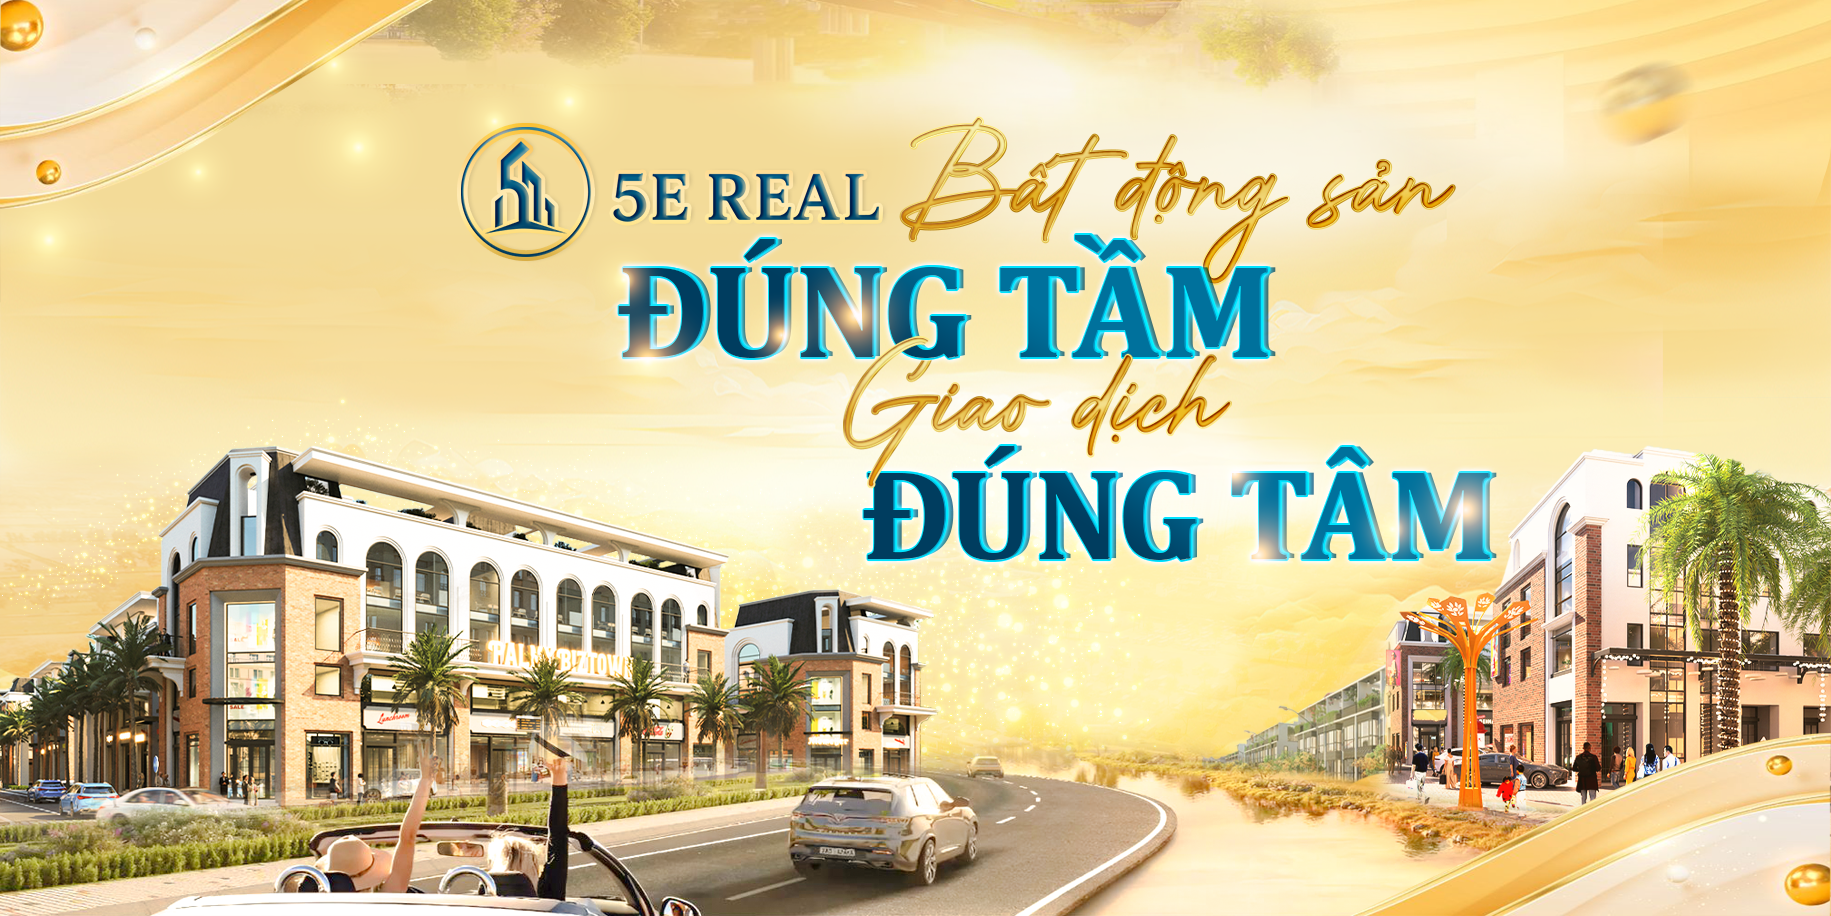
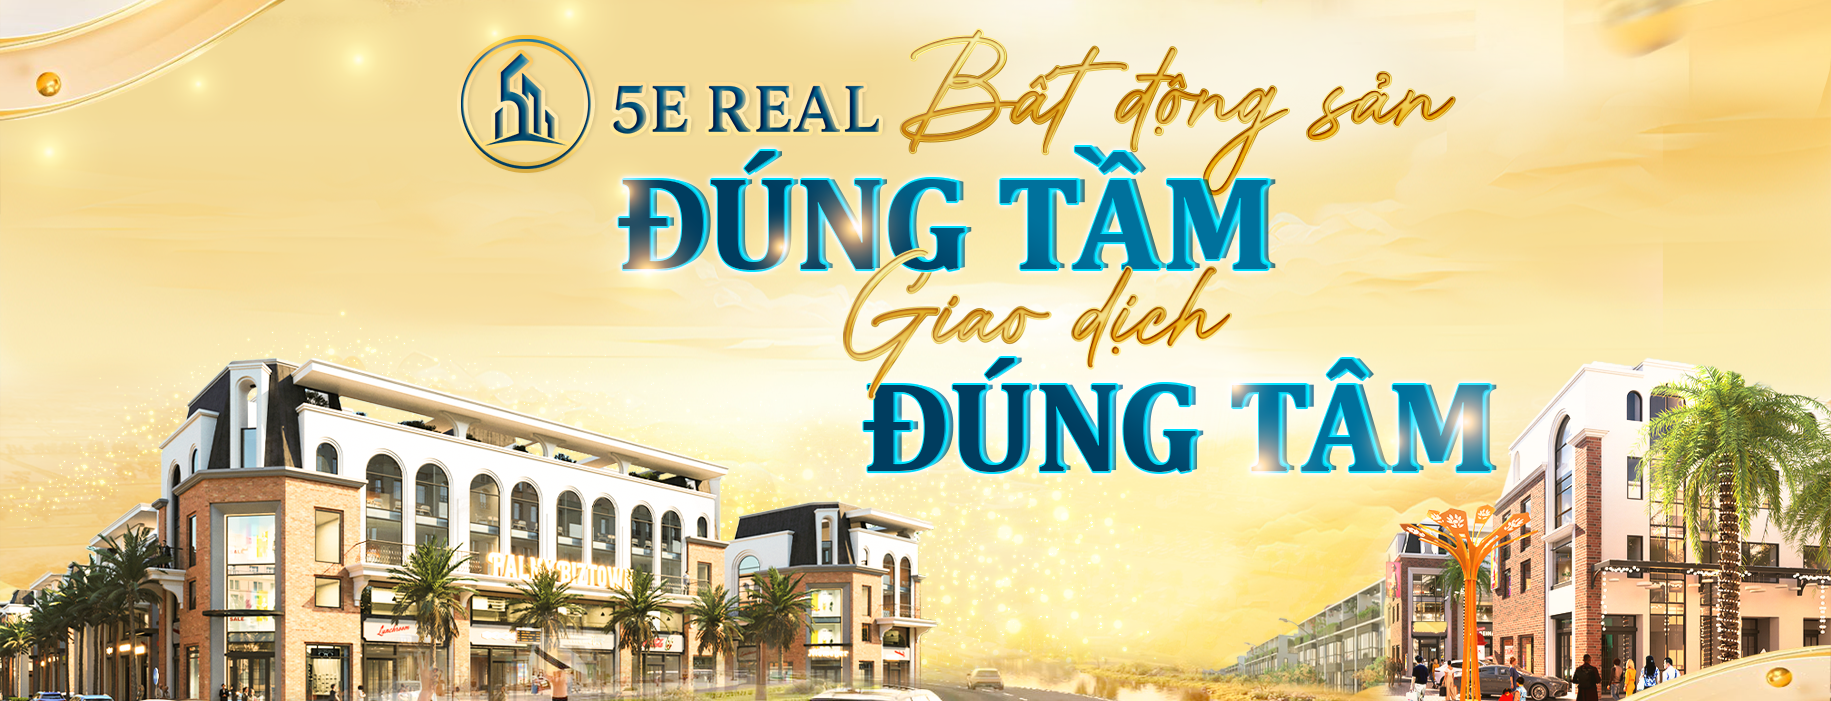
dev

diff --git a/app/linh-vuc-hoat-dong/dao-tao-dau-tu-va-giao-dich-bds/page.tsx b/app/linh-vuc-hoat-dong/dao-tao-dau-tu-va-giao-dich-bds/page.tsx
@@ -1,0 +1,69 @@
+import React from 'react'
+import Image from 'next/image'
+
+function page() {
+  return (
+    <section className="max-w-6xl mx-auto px-4 py-8 space-y-4">
+      {/* Title */}
+      <div className="text-center">
+        <h1 className="text-2xl md:text-3xl font-bold text-slate-900">
+          ĐÀO TẠO ĐẦU TƯ &amp; GIAO DỊCH BĐS
+        </h1>
+        <p className="mt-3 text-slate-600">
+          Chương trình đào tạo chuyên sâu về đầu tư bất động sản
+        </p>
+      </div>
+
+      {/* First image */}
+      <figure className="rounded-xl overflow-hidden bg-slate-50">
+        <Image
+          src="/linh-vuc-1.png"
+          alt="Đào tạo bất động sản"
+          className="w-full object-cover"
+          width={1920}
+          height={1080}
+        />
+      </figure>
+
+      {/* Text content */}
+      <div className="space-y-4 text-slate-700">
+        <p>
+          Chúng tôi xây dựng chương trình đào tạo chuyên sâu giúp học viên nắm vững kiến thức, kỹ năng
+          và chiến lược trong lĩnh vực đầu tư &amp; giao dịch bất động sản. Nội dung đào tạo được thiết kế
+          bài bản, kết hợp lý thuyết và thực tiễn.
+        </p>
+        <ul className="list-disc list-inside space-y-2">
+          <li>Kiến thức nền tảng về thị trường bất động sản</li>
+          <li>Phân tích và đánh giá tiềm năng dự án</li>
+          <li>Chiến lược đầu tư và quản lý rủi ro</li>
+          <li>Kỹ năng giao dịch và đàm phán hiệu quả</li>
+        </ul>
+      </div>
+
+      {/* Second image */}
+      <figure className="rounded-xl overflow-hidden bg-slate-50">
+        <Image
+          src="/linh-vuc-2.jpg"
+          alt="Khóa học đầu tư"
+          className="w-full object-cover"
+          width={1920}
+          height={1080}
+        />
+      </figure>
+
+      <div className="space-y-4 text-slate-700">
+        <p>
+          Các buổi học được dẫn dắt bởi chuyên gia giàu kinh nghiệm, mang đến góc nhìn thực tế và giải pháp
+          phù hợp cho từng tình huống cụ thể trong đầu tư bất động sản.
+        </p>
+        <p>
+          Mục tiêu của chúng tôi là giúp học viên tự tin hơn trong việc ra quyết định, gia tăng cơ hội thành
+          công và xây dựng sự nghiệp bền vững trong ngành bất động sản.
+        </p>
+      </div>
+    </section>
+
+  )
+}
+
+export default page

diff --git a/app/linh-vuc-hoat-dong/dau-tu-va-phat-trien-du-an/page.tsx b/app/linh-vuc-hoat-dong/dau-tu-va-phat-trien-du-an/page.tsx
@@ -1,8 +1,67 @@
+import Image from 'next/image'
 import React from 'react'
 
 function page() {
   return (
-    <div>page</div>
+    <section className="max-w-6xl mx-auto px-4 py-8 space-y-4">
+      {/* Title */}
+      <div className="text-center">
+        <h1 className="text-2xl md:text-3xl font-bold text-slate-900">ĐẦU TƯ VÀ PHÁT TRIỂN DỰ ÁN</h1>
+        <p className="mt-3 text-slate-600">Định hình toàn bộ chiến lược Marketing và thương mại hóa</p>
+      </div>
+
+
+      {/* First image */}
+      <figure className="rounded-xl overflow-hidden bg-slate-50">
+        <Image
+          src="/17.jpg"
+          alt="Banner"
+          className="w-full object-cover"
+          width={1920}
+          height={1080}
+        />
+      </figure>
+
+
+      {/* Text content */}
+      <div className="space-y-4 text-slate-700">
+        <p>
+          Chúng tôi đồng hành cùng đối tác trong toàn bộ tiến trình thương mại hóa dự án – từ ý tưởng
+          ban đầu đến khi chính thức đi vào vận hành. Mỗi chiến lược được xây dựng đều hướng đến hiệu
+          quả, bền vững và gia tăng giá trị lâu dài.
+        </p>
+        <ul className="list-disc list-inside space-y-2">
+          <li>Nghiên cứu & phân tích thị trường</li>
+          <li>Xây dựng chiến lược Marketing toàn diện</li>
+          <li>Thương mại hóa & kế hoạch bán hàng</li>
+          <li>Giải pháp đồng bộ từ thiết kế đến vận hành</li>
+        </ul>
+      </div>
+
+
+      {/* Second image */}
+      <figure className="rounded-xl overflow-hidden bg-slate-50">
+        <Image
+          src="/cong-cu-2.jpg"
+          alt="Chiến lược"
+          className="w-full object-cover"
+          width={1920}
+          height={1080}
+        />
+      </figure>
+
+      <div className="space-y-4 text-slate-700">
+        <p>
+          Mỗi dự án được triển khai theo một lộ trình rõ ràng, bao gồm các giai đoạn nghiên cứu, phát
+          triển sản phẩm, truyền thông và thương mại hóa. Mỗi bước đi đều được tối ưu để đạt hiệu quả
+          cao nhất.
+        </p>
+        <p>
+          Chúng tôi cam kết mang đến cho khách hàng và đối tác giải pháp toàn diện, vừa đảm bảo mục
+          tiêu kinh doanh, vừa tạo dựng giá trị lâu dài cho cộng đồng và thị trường.
+        </p>
+      </div>
+    </section>
   )
 }
 

diff --git a/app/linh-vuc-hoat-dong/phan-phoi-bat-dong-san/page.tsx b/app/linh-vuc-hoat-dong/phan-phoi-bat-dong-san/page.tsx
@@ -1,8 +1,67 @@
 import React from 'react'
+import Image from 'next/image'
 
 function page() {
   return (
-    <div>page</div>
+    <section className="max-w-6xl mx-auto px-4 py-8 space-y-4">
+      {/* Title */}
+      <div className="text-center">
+        <h1 className="text-2xl md:text-3xl font-bold text-slate-900">
+          PHÂN PHỐI BẤT ĐỘNG SẢN
+        </h1>
+        <p className="mt-3 text-slate-600">
+          Hệ thống phân phối chuyên nghiệp và hiệu quả
+        </p>
+      </div>
+
+      {/* First image */}
+      <figure className="rounded-xl overflow-hidden bg-slate-50">
+        <Image
+          src="/cong-cu-4.jpg"
+          alt="Hệ thống phân phối"
+          className="w-full object-cover"
+          width={1920}
+          height={1080}
+        />
+      </figure>
+
+      {/* Text content */}
+      <div className="space-y-4 text-slate-700">
+        <p>
+          Với hệ thống phân phối rộng khắp và chuyên nghiệp, chúng tôi đảm bảo mỗi dự án bất động sản
+          được tiếp cận đúng khách hàng mục tiêu, tối ưu hiệu quả bán hàng và gia tăng giá trị thương hiệu.
+        </p>
+        <ul className="list-disc list-inside space-y-2">
+          <li>Đội ngũ kinh doanh giàu kinh nghiệm</li>
+          <li>Chiến lược tiếp thị & bán hàng hiệu quả</li>
+          <li>Mạng lưới phân phối đa kênh toàn diện</li>
+          <li>Chính sách hỗ trợ và chăm sóc khách hàng chuyên nghiệp</li>
+        </ul>
+      </div>
+
+      {/* Second image */}
+      <figure className="rounded-xl overflow-hidden bg-slate-50">
+        <Image
+          src="/du-an-3.png"
+          alt="Kênh phân phối"
+          className="w-full object-cover"
+          width={1920}
+          height={1080}
+        />
+      </figure>
+
+      <div className="space-y-4 text-slate-700">
+        <p>
+          Chúng tôi triển khai hệ thống quản lý bán hàng minh bạch, hiện đại và hiệu quả, đảm bảo tiến độ
+          cũng như mục tiêu kinh doanh của từng dự án.
+        </p>
+        <p>
+          Sứ mệnh của chúng tôi là mang đến cho khách hàng cơ hội tiếp cận những sản phẩm bất động sản chất
+          lượng, đồng thời giúp chủ đầu tư tối ưu hóa doanh thu và phát triển bền vững.
+        </p>
+      </div>
+    </section>
+
   )
 }
 

diff --git a/app/linh-vuc-hoat-dong/thiet-ke-va-thi-cong-can-ho/page.tsx b/app/linh-vuc-hoat-dong/thiet-ke-va-thi-cong-can-ho/page.tsx
@@ -1,8 +1,68 @@
 import React from 'react'
+import Image from 'next/image'
 
 function page() {
   return (
-    <div>page</div>
+    <section className="max-w-6xl mx-auto px-4 py-8 space-y-4">
+      {/* Title */}
+      <div className="text-center">
+        <h1 className="text-2xl md:text-3xl font-bold text-slate-900">
+          THIẾT KẾ VÀ THI CÔNG CĂN HỘ
+        </h1>
+        <p className="mt-3 text-slate-600">
+          Dịch vụ thiết kế và thi công nội thất cao cấp
+        </p>
+      </div>
+
+      {/* First image */}
+      <figure className="rounded-xl overflow-hidden bg-slate-50">
+        <Image
+          src="/cong-cu-1.jpg"
+          alt="Thiết kế căn hộ"
+          className="w-full object-cover"
+          width={1920}
+          height={1080}
+        />
+      </figure>
+
+      {/* Text content */}
+      <div className="space-y-4 text-slate-700">
+        <p>
+          Chúng tôi cung cấp dịch vụ thiết kế và thi công nội thất căn hộ theo phong cách hiện đại,
+          sang trọng và tiện nghi. Mỗi dự án đều được nghiên cứu kỹ lưỡng để tối ưu không gian sống
+          và thể hiện cá tính riêng của gia chủ.
+        </p>
+        <ul className="list-disc list-inside space-y-2">
+          <li>Tư vấn phong cách và bố trí không gian</li>
+          <li>Lựa chọn vật liệu cao cấp và bền vững</li>
+          <li>Thi công trọn gói với đội ngũ chuyên nghiệp</li>
+          <li>Bảo hành &amp; hỗ trợ sau bàn giao</li>
+        </ul>
+      </div>
+
+      {/* Second image */}
+      <figure className="rounded-xl overflow-hidden bg-slate-50">
+        <Image
+          src="/cong-cu-3.jpg"
+          alt="Thi công nội thất"
+          className="w-full object-cover"
+          width={1920}
+          height={1080}
+        />
+      </figure>
+
+      <div className="space-y-4 text-slate-700">
+        <p>
+          Mỗi căn hộ được chúng tôi hoàn thiện không chỉ đáp ứng nhu cầu công năng, mà còn mang đến
+          sự thoải mái và thẩm mỹ lâu dài cho gia đình bạn.
+        </p>
+        <p>
+          Với quy trình khép kín từ thiết kế đến thi công, chúng tôi cam kết mang lại chất lượng vượt
+          trội, đúng tiến độ và tối ưu chi phí cho khách hàng.
+        </p>
+      </div>
+    </section>
+
   )
 }
 

diff --git a/app/tin-tuc/page.tsx b/app/tin-tuc/page.tsx
@@ -35,7 +35,7 @@ async function TinTuc({ searchParams }: { searchParams: Promise<{ page: string, 
             <div className="lg:w-1/2 h-full flex flex-col">
               <h2 className="text-[#0F3E5A] font-bold text-xl mb-2">{firstNews.title}</h2>
               <p className="text-[#d2a932] font-bold mb-2">{new Date(firstNews.createdAt).toLocaleDateString()}</p>
-              <div dangerouslySetInnerHTML={{ __html: firstNews.content }} className="line-clamp-5 text-[#007AA7] flex-1 h-full mb-4" />
+              <div dangerouslySetInnerHTML={{ __html: firstNews.content.replace(/<img[^>]*>/g, "") }} className="clamp-html line-clamp-4 text-[#007AA7] mb-4" />
               <div>
                 <Link href={`tin-tuc/${firstNews.slug}`} className="inline-flex py-2 px-8 text-[#007AA7] bg-gradient-to-r from-[#feedbf] to-[#c29551] rounded-full font-semibold cursor-pointer hover:opacity-80 duration-300">
                   Xem chi tiết

diff --git a/components/ui/footer/index.tsx b/components/ui/footer/index.tsx
@@ -18,15 +18,15 @@ function Footer() {
               <li className="py-2">
                 <Link href="/ve-chung-toi">Giới thiệu</Link>
               </li>
-              {/* <li className="py-2">
+              <li className="py-2">
                 <Link href="/du-an">Dự án</Link>
-              </li> */}
+              </li>
               {/* <li className="py-2">
                 <Link href="/truyen-thong">Truyền thông</Link>
               </li> */}
-              <li className="py-2">
+              {/* <li className="py-2">
                 <Link href="/tuyen-dung">Tuyển dụng</Link>
-              </li>
+              </li> */}
             </ul>
           </div>
           <div className="lg:px-16">

diff --git a/app/page.tsx b/app/page.tsx
@@ -43,7 +43,7 @@ export default async function Home() {
   return (
     <main className="background-linear-yellow">
       <section className="mb-8">
-        <Image src="/banner-home.png" alt="banner-home" width={1831} height={916} unoptimized className="w-full max-h-[600px] object-center" />
+        <Image src="/banner-home.png" alt="banner-home" width={1831} height={916} unoptimized className="w-full object-cover" />
       </section>
       <section className="mb-16 px-4 container mx-auto">
         {/* Section Title */}

diff --git a/components/ui/homepage/linh-vuc-hoat-dong.tsx b/components/ui/homepage/linh-vuc-hoat-dong.tsx
@@ -29,7 +29,7 @@ function LinhVucHoatDong() {
       subtitle: "Chương trình đào tạo chuyên sâu về đầu tư bất động sản",
       image: "/linh-vuc-3.jpg",
       bgColor: "bg-[rgba(20,67,97,0.6)]",
-      href: "/linh-vuc-hoat-dong/giao-dich-dau-tu-va-giao-dich-bds"
+      href: "/linh-vuc-hoat-dong/dao-tao-dau-tu-va-giao-dich-bds"
     },
     {
       id: 4,

diff --git a/app/globals.css b/app/globals.css
@@ -75,3 +75,8 @@
   line-height: 1.6;
   color: #333;
 }
+
+.clamp-html * {
+  display: inline !important;
+  line-height: 1.5; /* để tránh dính chữ */
+}
